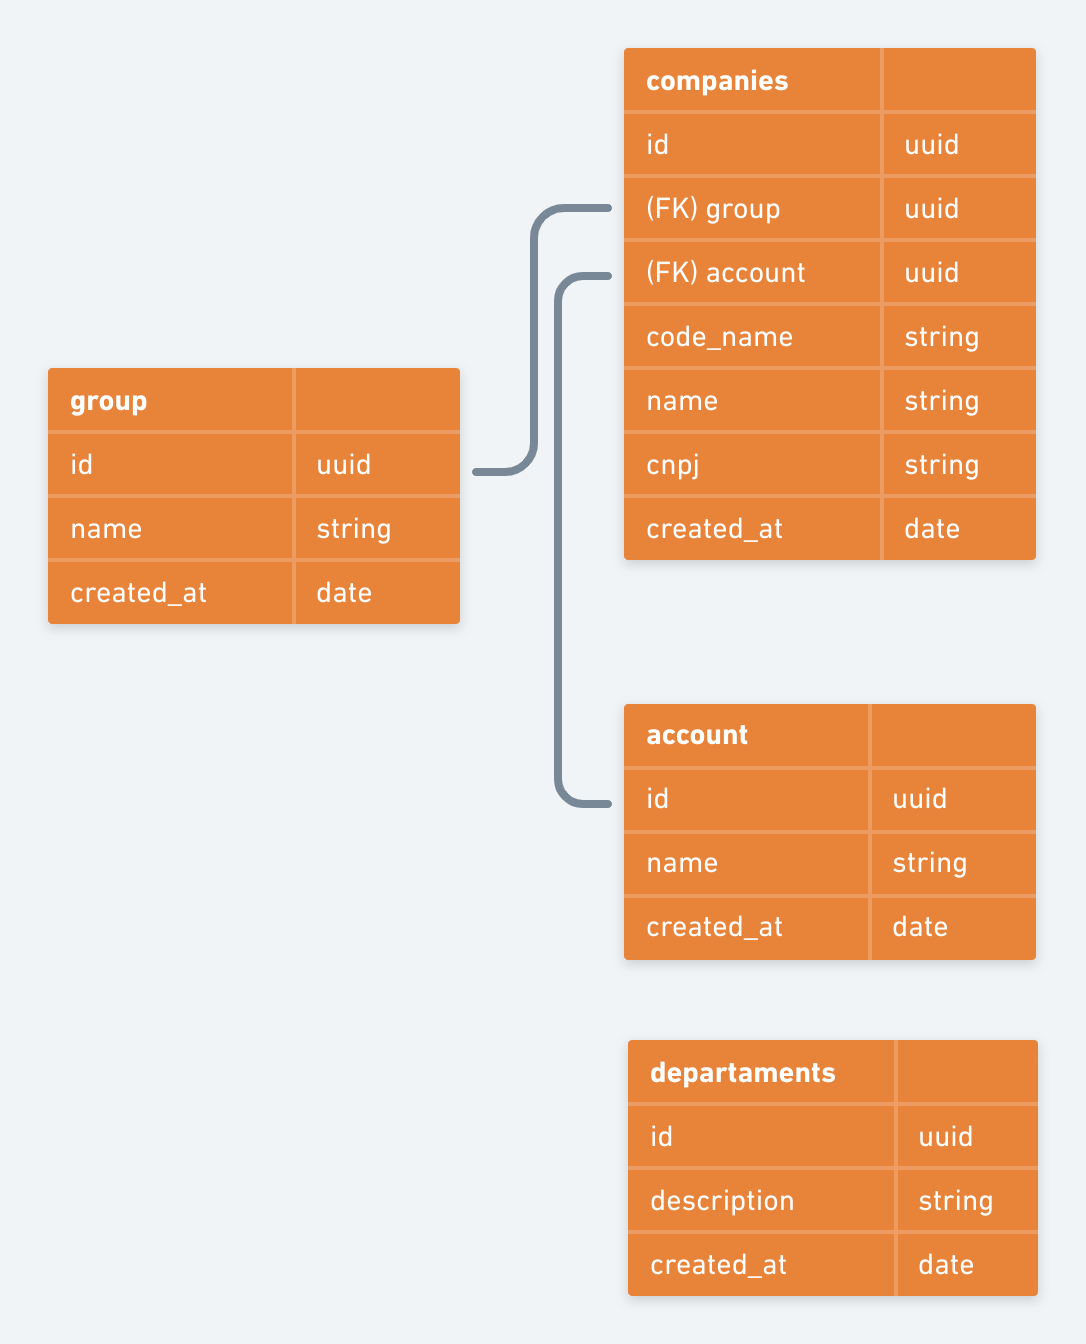
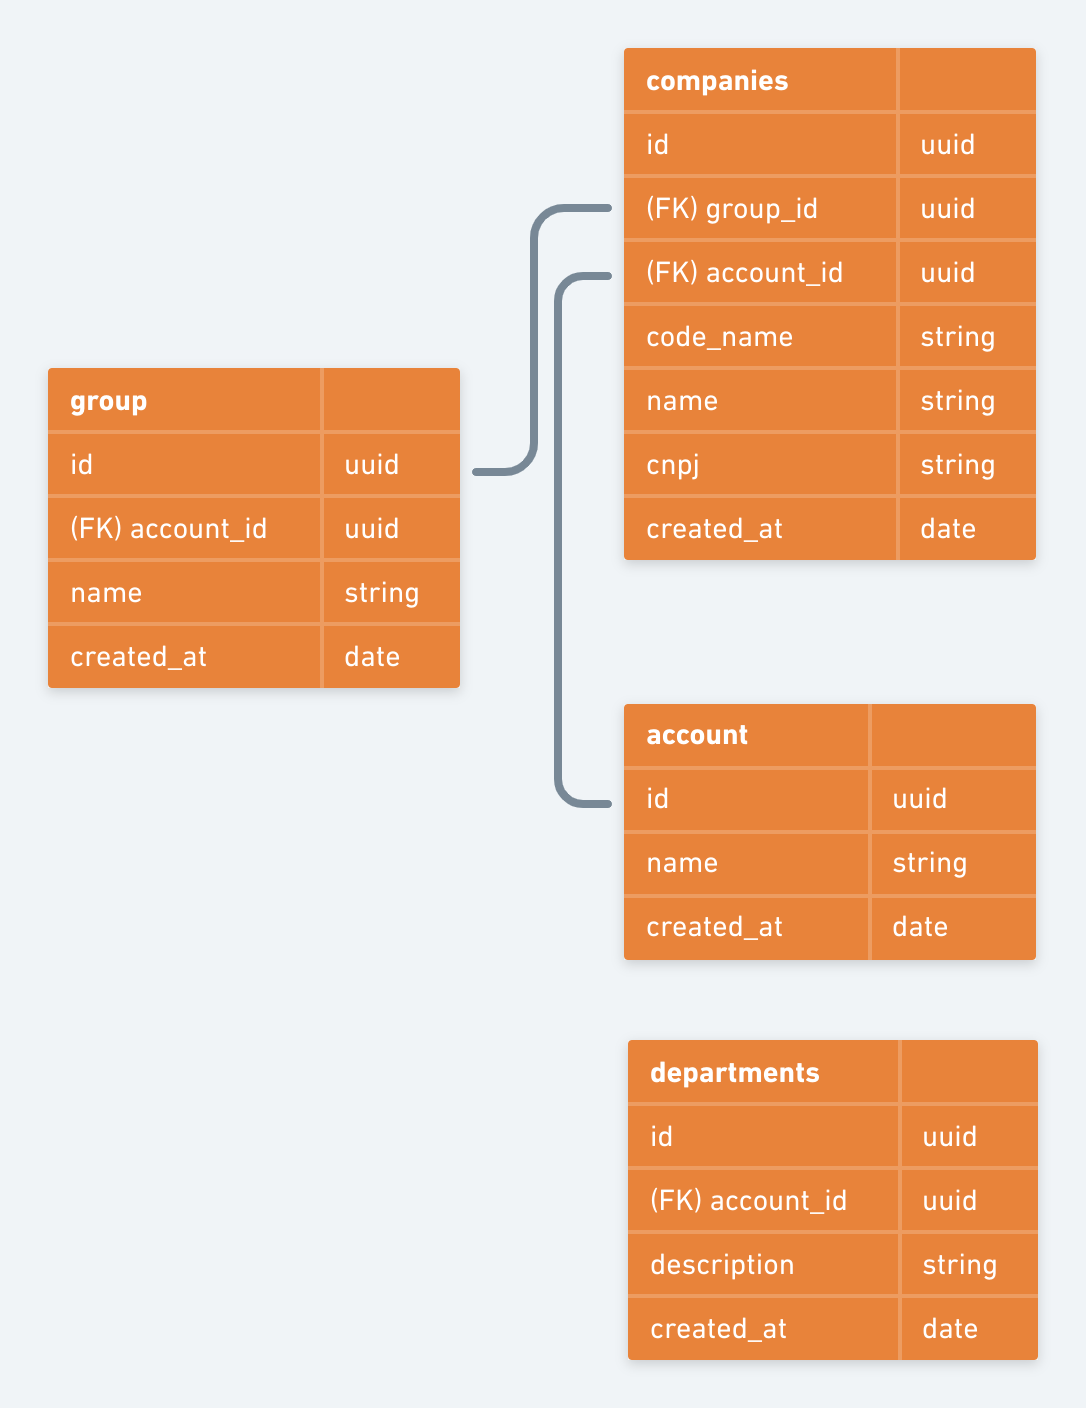
Updating the tables foreign keys

Changed region(s): [[0.4862, 0.5, 0.9724, 0.9688], [0.4862, 0.0312, 0.9724, 0.4375], [0.0304, 0.25, 0.5166, 0.5]]

diff --git a/src/shared/infra/typeorm/migrations/1627000366072-CreateCompanies.ts b/src/shared/infra/typeorm/migrations/1627000366072-CreateCompanies.ts
@@ -1,21 +1,34 @@
 import { MigrationInterface, QueryRunner, Table } from 'typeorm';
 
-export class CreateDepartments1626566027122 implements MigrationInterface {
+export class CreateCompanies1627000366072 implements MigrationInterface {
   public async up(queryRunner: QueryRunner): Promise<void> {
     await queryRunner.createTable(
       new Table({
-        name: 'departments',
+        name: 'companies',
         columns: [
           {
             name: 'id',
-            type: 'varchar',
+            type: 'uuid',
+            isPrimary: true,
           },
           {
             name: 'account_id',
             type: 'uuid',
           },
           {
-            name: 'description',
+            name: 'group_id',
+            type: 'uuid',
+          },
+          {
+            name: 'code_name',
+            type: 'varchar',
+          },
+          {
+            name: 'name',
+            type: 'varchar',
+          },
+          {
+            name: 'cnpj',
             type: 'varchar',
           },
           {
@@ -26,7 +39,13 @@ export class CreateDepartments1626566027122 implements MigrationInterface {
         ],
         foreignKeys: [
           {
-            name: 'FKDepartmentAccount',
+            name: 'FKCompanyGroup',
+            referencedTableName: 'groups',
+            referencedColumnNames: ['id'],
+            columnNames: ['group_id'],
+          },
+          {
+            name: 'FKCompanyAccount',
             referencedTableName: 'accounts',
             referencedColumnNames: ['id'],
             columnNames: ['account_id'],
@@ -37,6 +56,6 @@ export class CreateDepartments1626566027122 implements MigrationInterface {
   }
 
   public async down(queryRunner: QueryRunner): Promise<void> {
-    await queryRunner.dropTable('departments');
+    await queryRunner.dropTable('companies');
   }
 }

diff --git a/src/shared/infra/typeorm/migrations/1626525392963-CreateGroups.ts b/src/shared/infra/typeorm/migrations/1626525392963-CreateGroups.ts
@@ -1,10 +1,10 @@
 import { MigrationInterface, QueryRunner, Table } from 'typeorm';
 
-export class CreateCompanies1625441004896 implements MigrationInterface {
+export class CreateGroup1626525392963 implements MigrationInterface {
   public async up(queryRunner: QueryRunner): Promise<void> {
     await queryRunner.createTable(
       new Table({
-        name: 'companies',
+        name: 'groups',
         columns: [
           {
             name: 'id',
@@ -12,15 +12,11 @@ export class CreateCompanies1625441004896 implements MigrationInterface {
             isPrimary: true,
           },
           {
-            name: 'code_name',
-            type: 'varchar',
+            name: 'account_id',
+            type: 'uuid',
           },
           {
             name: 'name',
-            type: 'varchar',
-          },
-          {
-            name: 'cnpj',
             type: 'varchar',
           },
           {
@@ -29,11 +25,19 @@ export class CreateCompanies1625441004896 implements MigrationInterface {
             default: 'now()',
           },
         ],
+        foreignKeys: [
+          {
+            name: 'FKGroupAccount',
+            referencedTableName: 'accounts',
+            referencedColumnNames: ['id'],
+            columnNames: ['account_id'],
+          },
+        ],
       }),
     );
   }
 
   public async down(queryRunner: QueryRunner): Promise<void> {
-    await queryRunner.dropTable('companies');
+    await queryRunner.dropTable('group');
   }
 }

diff --git a/src/modules/accounts/useCases/createCompany/CreateCompanyUseCase.ts b/src/modules/accounts/useCases/createCompany/CreateCompanyUseCase.ts
@@ -6,8 +6,10 @@ import { AppError } from '@shared/errors/AppError';
 
 interface IRequest {
   id: string;
-  code_name: string;
+  account_id: string;
+  group_id: string;
   name: string;
+  code_name: string;
   cnpj: string;
 }
 
@@ -18,7 +20,14 @@ class CreateCompanyUseCase {
     private companiesRepository: ICompaniesRepository,
   ) {}
 
-  async execute({ id, code_name, name, cnpj }: IRequest): Promise<Company> {
+  async execute({
+    id,
+    account_id,
+    group_id,
+    name,
+    code_name,
+    cnpj,
+  }: IRequest): Promise<Company> {
     const companyAlreadyExists = await this.companiesRepository.findByCNPJ(
       cnpj,
     );
@@ -29,8 +38,10 @@ class CreateCompanyUseCase {
 
     const company = await this.companiesRepository.create({
       id,
-      code_name,
+      account_id,
+      group_id,
       name,
+      code_name,
       cnpj,
     });
 

diff --git a/src/modules/accounts/useCases/createDepartment/CreateDepartmentUseCase.ts b/src/modules/accounts/useCases/createDepartment/CreateDepartmentUseCase.ts
@@ -6,6 +6,7 @@ import { AppError } from '@shared/errors/AppError';
 
 interface IRequest {
   id?: string;
+  account_id: string;
   description: string;
 }
 
@@ -16,7 +17,7 @@ class CreateDepartmentUseCase {
     private departmentsRepository: IDepartmentsRepository,
   ) {}
 
-  async execute({ description }: IRequest): Promise<Department> {
+  async execute({ account_id, description }: IRequest): Promise<Department> {
     const departmentAlreadyExists = await this.departmentsRepository.findByName(
       description,
     );
@@ -25,7 +26,10 @@ class CreateDepartmentUseCase {
       throw new AppError('department already exists!');
     }
 
-    const department = await this.departmentsRepository.create({ description });
+    const department = await this.departmentsRepository.create({
+      account_id,
+      description,
+    });
     return department;
   }
 }

diff --git a/src/modules/accounts/useCases/createGroup/CreateGroupUseCase.ts b/src/modules/accounts/useCases/createGroup/CreateGroupUseCase.ts
@@ -6,6 +6,7 @@ import { AppError } from '@shared/errors/AppError';
 
 interface IRequest {
   id?: string;
+  account_id: string;
   name: string;
 }
 
@@ -16,14 +17,14 @@ class CreateGroupUseCase {
     private groupsRepository: GroupsRepository,
   ) {}
 
-  async execute({ name }: IRequest): Promise<Group> {
+  async execute({ account_id, name }: IRequest): Promise<Group> {
     const groupAlreadyExists = await this.groupsRepository.findByName(name);
 
     if (groupAlreadyExists) {
       throw new AppError('Group already exists!');
     }
 
-    const group = this.groupsRepository.create({ name });
+    const group = this.groupsRepository.create({ account_id, name });
 
     return group;
   }

diff --git a/src/modules/accounts/infra/typeorm/entities/Company.ts b/src/modules/accounts/infra/typeorm/entities/Company.ts
@@ -1,10 +1,34 @@
-import { Column, CreateDateColumn, Entity, PrimaryColumn } from 'typeorm';
+import {
+  Column,
+  CreateDateColumn,
+  Entity,
+  JoinColumn,
+  ManyToOne,
+  PrimaryColumn,
+} from 'typeorm';
 import { v4 as uuidv4 } from 'uuid';
+
+import { Account } from './Account';
+import { Group } from './Group';
 
 @Entity('companies')
 class Company {
   @PrimaryColumn()
   id: string;
+
+  @ManyToOne(() => Account)
+  @JoinColumn({ name: 'account_id' })
+  account: Account;
+
+  @Column()
+  account_id: string;
+
+  @ManyToOne(() => Group)
+  @JoinColumn({ name: 'group_id' })
+  group: Group;
+
+  @Column()
+  group_id: string;
 
   @Column()
   code_name: string;

diff --git a/src/modules/accounts/useCases/createDepartment/CreateDepartmentController.ts b/src/modules/accounts/useCases/createDepartment/CreateDepartmentController.ts
@@ -5,11 +5,14 @@ import { CreateDepartmentUseCase } from './CreateDepartmentUseCase';
 
 class CreateDepartmentController {
   async handle(request: Request, response: Response): Promise<Response> {
-    const { description } = request.body;
+    const { account_id, description } = request.body;
 
     const createDepartmentsUseCase = container.resolve(CreateDepartmentUseCase);
 
-    const department = await createDepartmentsUseCase.execute({ description });
+    const department = await createDepartmentsUseCase.execute({
+      account_id,
+      description,
+    });
 
     return response.status(201).json(department);
   }

diff --git a/src/modules/accounts/useCases/createCompany/CreateCompnayController.ts b/src/modules/accounts/useCases/createCompany/CreateCompnayController.ts
@@ -5,14 +5,16 @@ import { CreateCompanyUseCase } from './CreateCompanyUseCase';
 
 class CreateCompanyController {
   async handle(request: Request, response: Response): Promise<Response> {
-    const { id, code_name, name, cnpj } = request.body;
+    const { id, account_id, group_id, name, code_name, cnpj } = request.body;
 
     const createCompanyUseCase = container.resolve(CreateCompanyUseCase);
 
     const company = await createCompanyUseCase.execute({
       id,
-      code_name,
+      account_id,
+      group_id,
       name,
+      code_name,
       cnpj,
     });
 

diff --git a/src/modules/accounts/infra/typeorm/entities/Group.ts b/src/modules/accounts/infra/typeorm/entities/Group.ts
@@ -1,10 +1,26 @@
-import { Column, CreateDateColumn, Entity, PrimaryColumn } from 'typeorm';
+import {
+  Column,
+  CreateDateColumn,
+  Entity,
+  JoinColumn,
+  ManyToOne,
+  PrimaryColumn,
+} from 'typeorm';
 import { v4 as uuidv4 } from 'uuid';
 
-@Entity('group')
+import { Account } from './Account';
+
+@Entity('groups')
 class Group {
   @PrimaryColumn()
   id: string;
+
+  @ManyToOne(() => Account)
+  @JoinColumn({ name: 'account_id' })
+  account: Account;
+
+  @Column()
+  account_id: string;
 
   @Column()
   name: string;

diff --git a/src/modules/accounts/useCases/createGroup/CreateGroupController.ts b/src/modules/accounts/useCases/createGroup/CreateGroupController.ts
@@ -5,10 +5,10 @@ import { CreateGroupUseCase } from './CreateGroupUseCase';
 
 class CreateGroupController {
   async handle(request: Request, response: Response): Promise<Response> {
-    const { name } = request.body;
+    const { account_id, name } = request.body;
 
     const createGroupUseCase = container.resolve(CreateGroupUseCase);
-    const group = await createGroupUseCase.execute({ name });
+    const group = await createGroupUseCase.execute({ account_id, name });
 
     return response.status(201).json(group);
   }

diff --git a/src/modules/accounts/repositories/ICompaniesRepository.ts b/src/modules/accounts/repositories/ICompaniesRepository.ts
@@ -2,7 +2,13 @@ import { ICreateCompanyDTO } from '../dtos/ICreateCompanyDTO';
 import { Company } from '../infra/typeorm/entities/Company';
 
 interface ICompaniesRepository {
-  create(data: ICreateCompanyDTO): Promise<Company>;
+  create({
+    account_id,
+    group_id,
+    name,
+    code_name,
+    cnpj,
+  }: ICreateCompanyDTO): Promise<Company>;
   findById(id: string): Promise<Company>;
   findByCNPJ(cnpj: string): Promise<Company>;
   deleteById(id: string): Promise<void>;

diff --git a/src/modules/accounts/infra/typeorm/repositories/DepartmentsRepository.ts b/src/modules/accounts/infra/typeorm/repositories/DepartmentsRepository.ts
@@ -18,8 +18,11 @@ class DepartmentsRepository implements IDepartmentsRepository {
     return department;
   }
 
-  async create({ description }: ICreateDepartmentDTO): Promise<Department> {
-    const department = this.repository.create({ description });
+  async create({
+    account_id,
+    description,
+  }: ICreateDepartmentDTO): Promise<Department> {
+    const department = this.repository.create({ account_id, description });
 
     await this.repository.save(department);
 
